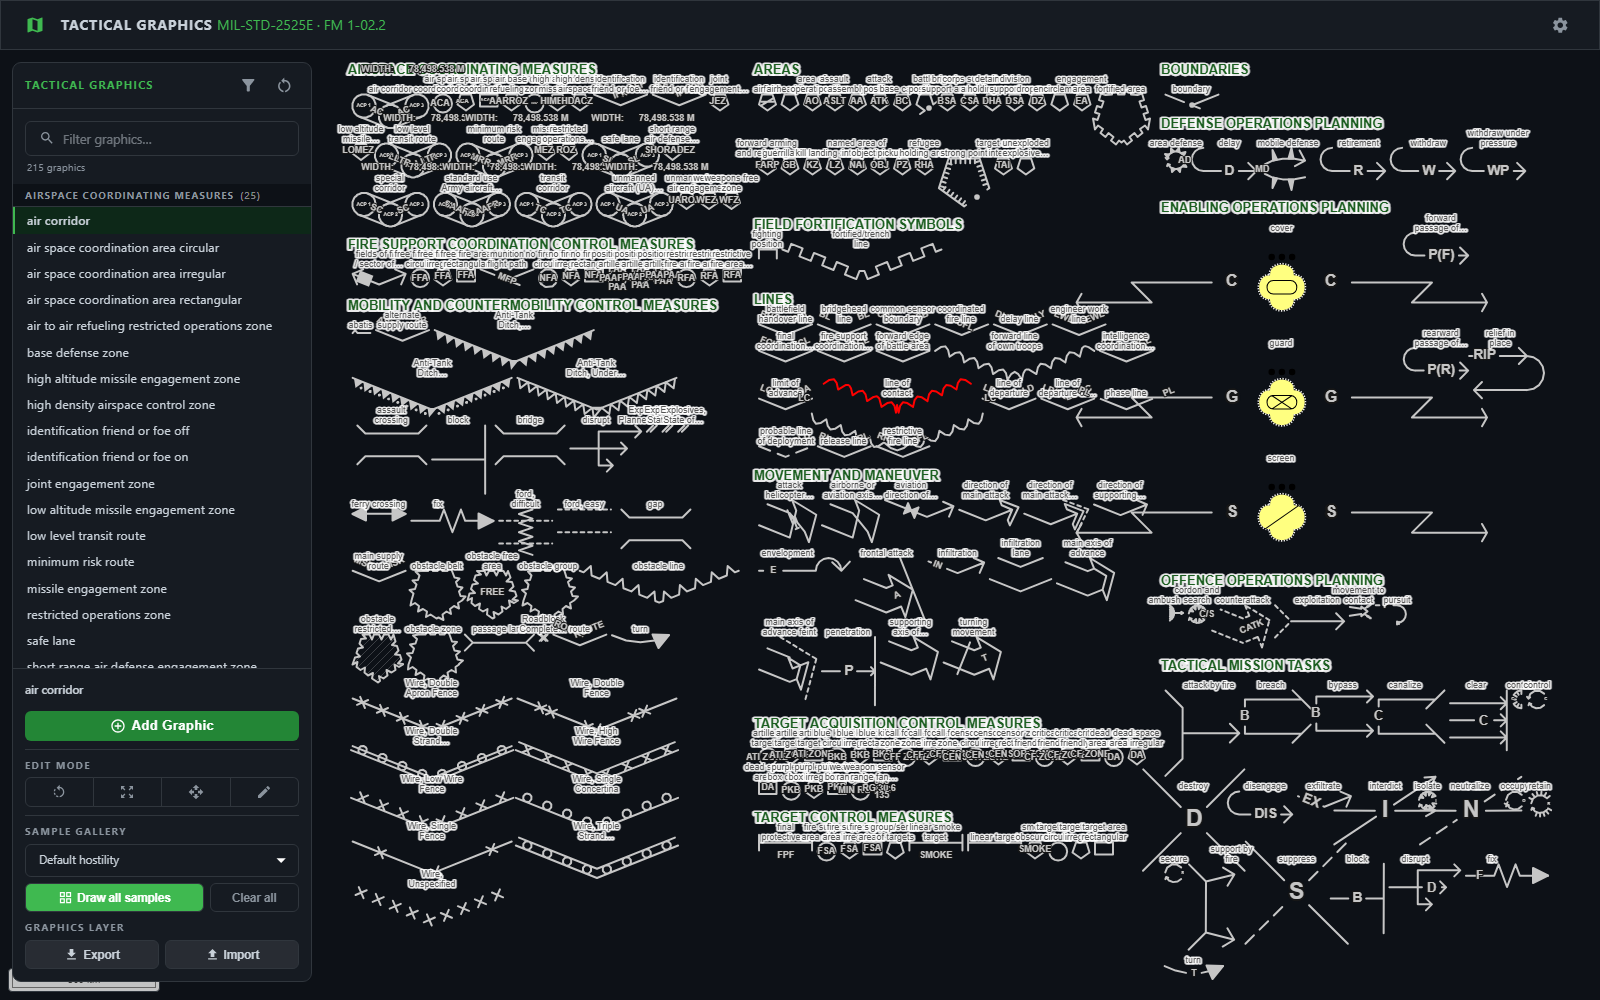
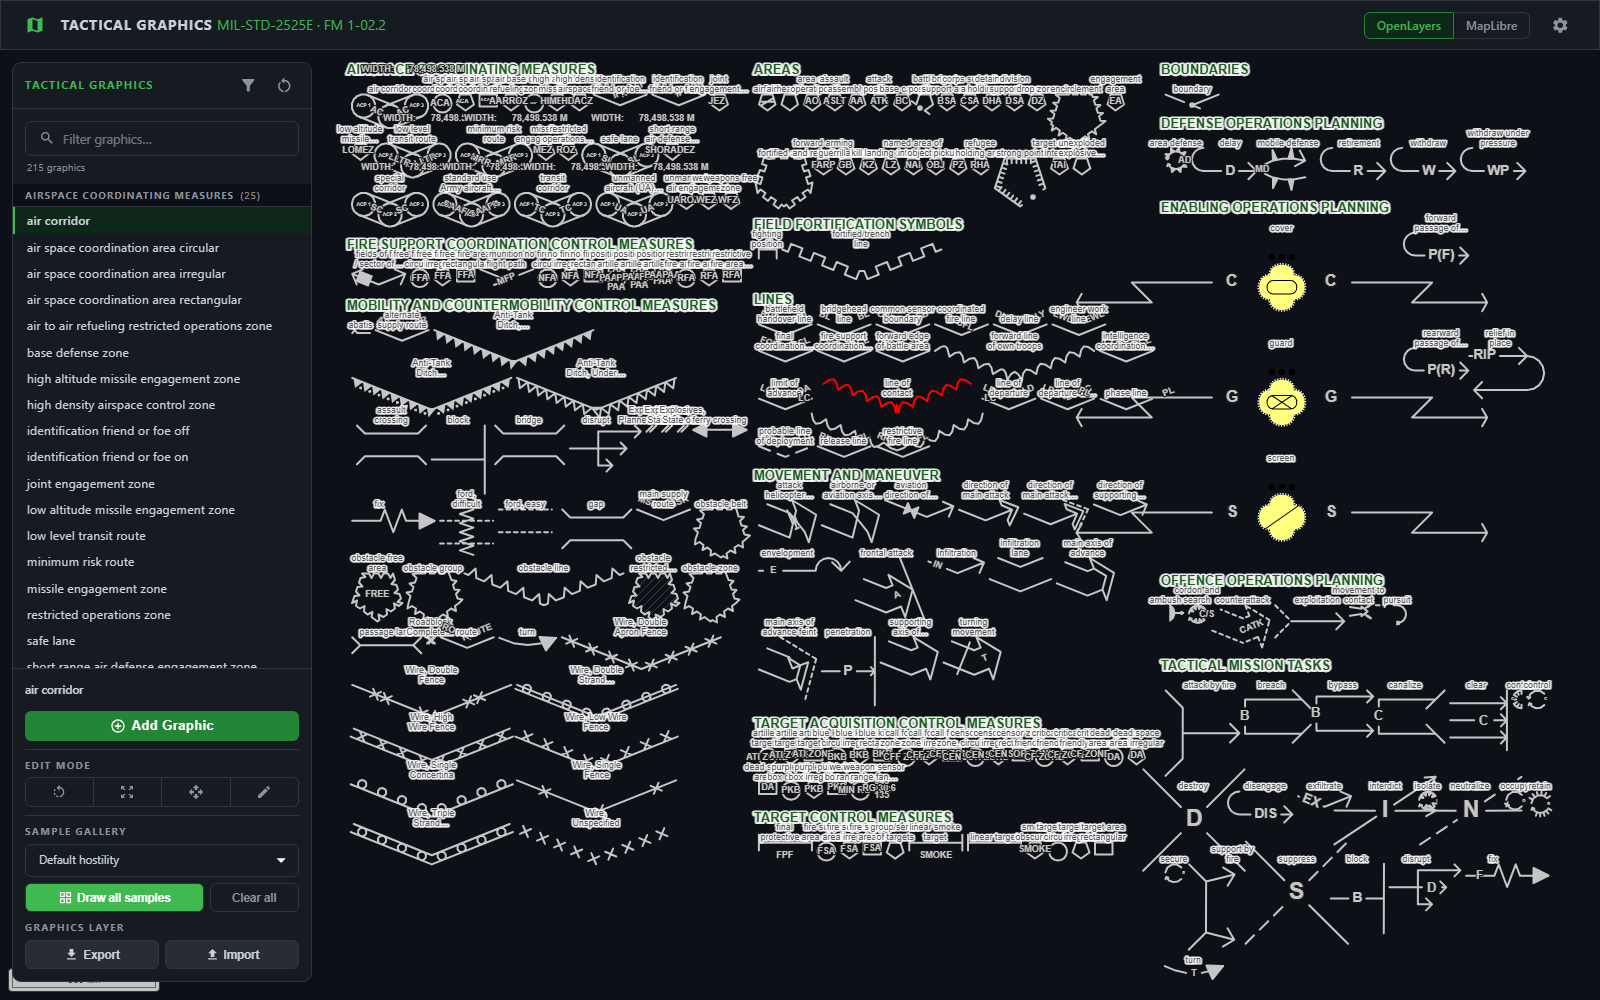
Draw encirclement's teeth in screen space, like the obstacle belt
The triangles were baked into the GeoJSON by the generator, sized in metres from
the resolution the graphic happened to be drawn at. That made them a ground
distance: they grew and shrank with the map while the obstacle belt beside them
held its size, and far enough out they degenerated into a band of sub-pixel fuzz
along the outline instead of dropping out the way every other repeating
decoration does.

So the generator now emits the plain outline — the split FortifiedArea already
uses, with the same one-line reason on it — and `encirclementPaint` crenellates
it per frame through `encirclementToothSize`, which caps the tooth against the
ring's own on-screen size and drops it below DECORATION_MIN_PX.

Two things the ring owns rather than any one piece of it: the winding that says
which side is outward, and the tooth size. A hostile encirclement arrives already
cut into segments to clear its ENY amplifiers, and sizing each segment against
its own length would give one outline several tooth sizes and make the hostile
symbol disagree with the friendly one drawn over the same area. Both are taken
from the concatenated ring instead.

The label gaps stay in the generator: that cut is geodesic, through the drawn
ring, not a screen-space decoration — so `decorationSize` still means something
on a hostile encirclement and still round-trips.

Encirclement joins DECORATED_GRAPHICS in the sample gallery for the reason the
[…]

diff --git a/src/tacticalgraphics/symbology/paintFunctions.test.ts b/src/tacticalgraphics/symbology/paintFunctions.test.ts
@@ -20,6 +20,7 @@ import {TacticalGraphicHostility, TacticalGraphicName} from '../core/type';
 import {resetTacticalGraphicsConfig} from '../core/config';
 import type {PaintContext, PaintFeature, ProjectedPosition} from '../core/paint';
 import {arcMissionTaskPaint, obstacleLinePaint, phaseLinePaint} from './paintFunctions';
+import {encirclementPaint} from './areaPaints';
 import {crenellatedPath, decorationScale, uprightRotation} from './decorations';
 
 /**
@@ -137,6 +138,82 @@ describe('obstacle teeth are sized against the shape', () => {
         // "down", not from the direction of travel.
         expect(labelY(forward)).toBeLessThan(0);
         expect(labelY(backward)).toBeLessThan(0);
+    });
+});
+
+/**
+ * Encirclement used to bake its triangles into the GeoJSON at the resolution the
+ * graphic was drawn at, so they were a *ground* distance: they grew and shrank with
+ * the map while the obstacle belt beside them held its size, and far enough out they
+ * degenerated into sub-pixel fuzz along the outline instead of dropping out. These
+ * pin the belt's behaviour on them.
+ */
+describe('encirclement teeth are sized against the shape, like the obstacle belt', () => {
+    const paintEncirclement = encirclementPaint();
+
+    /** A square ring, `half` metres from centre to edge, anticlockwise. */
+    const square = (half: number): ProjectedPosition[] => [
+        [-half, -half], [half, -half], [half, half], [-half, half], [-half, -half],
+    ];
+
+    const ringFeature = (ring: ProjectedPosition[], overrides: Partial<PaintFeature['properties']> = {}): PaintFeature => ({
+        geometry: {type: 'MultiLineString', coordinates: [ring]},
+        properties: {name: TacticalGraphicName.Encirclement, ...overrides},
+    });
+
+    /** How far the line work reaches past the ring, in screen pixels. */
+    const toothHeightPx = (half: number, resolution: number, feature = ringFeature(square(half))): number => {
+        const geometry = paintEncirclement(feature, context(resolution))[0].geometry;
+        if (geometry.type !== 'MultiLineString') return NaN;
+        const reach = Math.max(...geometry.coordinates.flat().map(([x, y]) => Math.max(Math.abs(x), Math.abs(y))));
+        return (reach - half) / resolution;
+    };
+
+    it('holds the same pixel height as the map zooms out', () => {
+        // The same ring on the ground, seen four times as far out. A baked tooth would
+        // report a quarter the pixels here; a screen-sized one reports the same number.
+        expect(toothHeightPx(400_000, 250)).toBeCloseTo(toothHeightPx(400_000, 1000), 6);
+        expect(toothHeightPx(400_000, 1000)).toBeGreaterThan(1);
+    });
+
+    it('shrinks the teeth once they would overwhelm the ring', () => {
+        // A ring 40 px across cannot carry a 10 px tooth, so the cap bites and this
+        // comes out below the uncapped height rather than at it.
+        const capped = toothHeightPx(10_000, 1000);
+        const uncapped = toothHeightPx(400_000, 1000);
+        expect(capped).toBeLessThan(uncapped);
+    });
+
+    it('drops the teeth entirely rather than drawing fuzz', () => {
+        // A ring 8 px across. The plain outline stands: five vertices, no teeth.
+        const geometry = paintEncirclement(ringFeature(square(400_000)), context(100_000))[0].geometry;
+        expect(geometry.type === 'MultiLineString' && geometry.coordinates[0]).toHaveLength(5);
+    });
+
+    it('points the teeth outward whichever way the ring was drawn', () => {
+        const clockwise = [...square(400_000)].reverse() as ProjectedPosition[];
+        expect(toothHeightPx(400_000, 1000)).toBeGreaterThan(1);
+        expect(toothHeightPx(400_000, 1000, ringFeature(clockwise))).toBeGreaterThan(1);
+    });
+
+    it('teeth a hostile outline too, and keeps the ENY amplifiers', () => {
+        // Hostile arrives as a collection: the outline already cut into segments to
+        // clear the amplifiers, plus the anchors they sit on.
+        const ring = square(400_000);
+        const feature: PaintFeature = {
+            geometry: {
+                type: 'GeometryCollection',
+                geometries: [
+                    {type: 'MultiLineString', coordinates: [ring.slice(0, 3), ring.slice(3)]},
+                    {type: 'MultiPoint', coordinates: [[0, 400_000]]},
+                ],
+            },
+            properties: {name: TacticalGraphicName.Encirclement, hostility: TacticalGraphicHostility.hostileFaker},
+        };
+
+        const paints = paintEncirclement(feature, context(1000));
+        expect(toothHeightPx(400_000, 1000, feature)).toBeGreaterThan(1);
+        expect(paints.some(p => p.text?.text === 'ENY')).toBe(true);
     });
 });
 

diff --git a/src/tacticalgraphics/symbology/areaPaints.ts b/src/tacticalgraphics/symbology/areaPaints.ts
@@ -15,7 +15,7 @@ import type {HatchSpec, Paint, PaintContext, PaintFeature} from '../core/paint';
 import {paintGeometryMembers, paintLineWork} from '../core/paint';
 import {LINE_WIDTH, fontStyle, getColorByHostility, getLabelFillColor, withOpacity} from '../core/symbology';
 import {TacticalGraphicHostility, TacticalGraphicStatus} from '../core/type';
-import {fortifiedRing, obstacleRing, textWidth} from './decorations';
+import {crenellatedPath, encirclementToothSize, fortifiedRing, obstacleRing, ringIsClockwise, textWidth} from './decorations';
 import {PLANNED_DASH_PX, hostilityOf, lineColorOf, scaleOf} from './paintFunctions';
 
 /** A paint function, in the shape the registry stores. */
@@ -204,19 +204,42 @@ export function groupOrSeriesOfTargetsPaint(): AreaPaint {
 }
 
 /**
- * Encirclement: the drawn outline, plus an "ENY" amplifier at each label anchor —
- * **only when the graphic is hostile**.
+ * Encirclement: the drawn outline worn with outward teeth, plus an "ENY" amplifier
+ * at each label anchor — the amplifiers **only when the graphic is hostile**.
  *
  * The one area graphic whose *form* changes with affiliation rather than only its
  * colour, which is why it cannot fall through to `areaOutlinePaint`.
+ *
+ * **The teeth are drawn here, in screen pixels, not baked by the generator** — the
+ * same split the obstacle belt and the fortified area already use, and for the same
+ * reason. A baked tooth is a ground distance fixed at the resolution the graphic was
+ * drawn at, so it grew and shrank with the map while every other toothed graphic on
+ * the same screen held its size, and it had no floor to fall through: zoomed out far
+ * enough the outline became a band of sub-pixel noise instead of a line.
+ * `encirclementToothSize` caps it against the ring's own on-screen size and drops it
+ * below `DECORATION_MIN_PX`.
+ *
+ * Outward is taken from the ring's winding rather than from drawing order, so a ring
+ * drawn anticlockwise does not come out with its teeth on the inside.
  *
  * The "ENY" stays in the label colour. Hostile line work goes red; hostile text
  * amplifiers do not — see the hostility colour rule in `ai/decisions.md`.
  */
 export function encirclementPaint(): AreaPaint {
     return (feature, context) => {
+        const paths = paintLineWork(feature.geometry);
+        // One ring's worth of points, whether the outline arrived whole or already cut
+        // into segments — both the winding and the tooth size belong to the ring, not
+        // to whichever piece of it is being walked.
+        const ring = paths.flat();
+        const {heightMap, baseMap, gapMap} = encirclementToothSize(ring, context.resolution);
+        const sideSign = ringIsClockwise(ring) ? 1 : -1;
+
         const paints: Paint[] = [{
-            geometry: strokeableGeometry(feature),
+            geometry: {
+                type: 'MultiLineString',
+                coordinates: paths.map(path => crenellatedPath(path, heightMap, baseMap, gapMap, sideSign)),
+            },
             stroke: {color: lineColorOf(feature), widthPx: LINE_WIDTH()},
         }];
 

diff --git a/src/tacticalgraphics/graphics/AreaGraphic.ts b/src/tacticalgraphics/graphics/AreaGraphic.ts
@@ -37,33 +37,30 @@ export class EncirclementArea extends TacticalGraphicsBase<EncirclementAreaOptio
     name: string = TacticalGraphicName.Encirclement;
     type: string = "Polygon";
 
+    /**
+     * The drawn outline, undecorated — the teeth are drawn in screen space.
+     * @see FortifiedArea, and `encirclementPaint` for why.
+     *
+     * A hostile encirclement's outline arrives cut into segments, with the gaps and
+     * the anchors the "ENY" amplifiers sit in. That stays here: the gap is a geodesic
+     * cut through the drawn ring, not a screen-space decoration.
+     */
     generateGraphics(base: Feature<Polygon>, opts?: EncirclementAreaOptions): Feature<MultiLineString | GeometryCollection> {
-        let size = opts?.size ?? 1;
-        let rotation = opts?.rotation ?? 0;
+        const size = opts?.size ?? 1;
+        const rotation = opts?.rotation ?? 0;
 
-        // create label spacing
         if (opts?.hostility === TacticalGraphicHostility.hostileFaker) {
-            let {outlineSegments, labelPoints} = geometryService.generateLabelGaps(base.geometry, {
+            const {outlineSegments, labelPoints} = geometryService.generateLabelGaps(base.geometry, {
                 rotationRad: rotation,
                 gapSize: (2 * size) / 111320
             });
-            let triangles = geometryService.generateMultiLineStringTriangles(outlineSegments, size * 0.75, size, size);
-            return this.asGeometryCollectionFeature(
-                [
-                    this.asMultiLineStringFeature([
-                        ...triangles,
-                        ...outlineSegments
-                    ]).geometry,
-                    this.asMultiPointFeature(labelPoints).geometry
-                ]
-            );
+            return this.asGeometryCollectionFeature([
+                this.asMultiLineStringFeature(outlineSegments).geometry,
+                this.asMultiPointFeature(labelPoints).geometry
+            ]);
         }
 
-        let triangles = geometryService.generatePolygonTriangles(base.geometry.coordinates, size * 0.75, size, size);
-        return this.asMultiLineStringFeature([
-            ...triangles,
-            ...base.geometry.coordinates
-        ]);
+        return this.asMultiLineStringFeature(base.geometry.coordinates);
     }
 
     generateHandles(base: Feature<Polygon>, opts: EncirclementAreaOptions | undefined): Feature<MultiPoint> {

diff --git a/src/tacticalgraphics/symbology/decorations.ts b/src/tacticalgraphics/symbology/decorations.ts
@@ -122,6 +122,31 @@ export function obstacleToothSize(path: ProjectedPosition[], closed: boolean, re
 }
 
 /**
+ * Encirclement's tooth is the obstacle tooth with a narrower base — the 0.75 : 1
+ * base-to-height ratio the generator used to bake, and the proportion the symbol
+ * is read at.
+ */
+export const ENCIRCLEMENT_TOOTH_BASE_SHARE = 0.75;
+
+/**
+ * An encirclement's tooth size, in projected metres, at the current resolution.
+ *
+ * `ring` is the **whole** outline even when the teeth are then laid along its
+ * pieces: a hostile encirclement's outline is cut into segments to clear the "ENY"
+ * amplifiers, and sizing each segment against its own length would give one ring
+ * several different tooth sizes and make the hostile symbol disagree with the
+ * friendly one drawn over the same area.
+ */
+export function encirclementToothSize(ring: ProjectedPosition[], resolution: number) {
+    const scale = decorationScale(ring, true, resolution, OBSTACLE_TOOTH_HEIGHT_PX);
+    return {
+        heightMap: OBSTACLE_TOOTH_HEIGHT_PX * scale * resolution,
+        baseMap: OBSTACLE_TOOTH_BASE_PX * ENCIRCLEMENT_TOOTH_BASE_SHARE * scale * resolution,
+        gapMap: OBSTACLE_TOOTH_GAP_PX * scale * resolution,
+    };
+}
+
+/**
  * Walks a path adding triangular teeth along it, returning one continuous
  * polyline that includes both the baseline and the teeth.
  *

diff --git a/src/components/openlayers/graphics/AreaGraphicBase.ts b/src/components/openlayers/graphics/AreaGraphicBase.ts
@@ -41,11 +41,17 @@ export class AreaGraphicBase implements PolygonGraphic {
     }
 
 
-    /** Decoration size in metres — Encirclement's triangles. Stamped, then replayed. */
+    /**
+     * Decoration size in metres — the width of the gaps a hostile Encirclement cuts in
+     * its outline for the "ENY" amplifiers. Stamped, then replayed.
+     *
+     * It used to size the teeth as well; those are drawn in screen space now, so this
+     * only reaches the label gaps. @see encirclementPaint
+     */
     decorationSize: number = 0;
 
     /**
-     * Only Encirclement's generator reads the decoration scalar. Stamping it on the other
+     * Only Encirclement's generator still reads the decoration scalar. Stamping it on the other
      * area graphics puts a number in the bag that nothing consumes and that then has to
      * survive a round trip it has no business being part of.
      */

diff --git a/src/components/openlayers/sampleGallery.ts b/src/components/openlayers/sampleGallery.ts
@@ -147,6 +147,11 @@ const DECORATED_GRAPHICS = new Set<TacticalGraphicName>([
     TacticalGraphicName.AntiTankDitchUnderConstruction,
     TacticalGraphicName.AntiTankDitchCompleted,
     TacticalGraphicName.AntiTankDitchReinforcedWithMines,
+    // Joined the family when its triangles stopped being baked into the GeoJSON at
+    // draw-time resolution and started being drawn in screen space like the rest.
+    // At the sweep's ordinary area size its ring is 17 px across, which is under the
+    // floor, so without this it samples as a bare rectangle.
+    TacticalGraphicName.Encirclement,
 ]);
 
 /**
